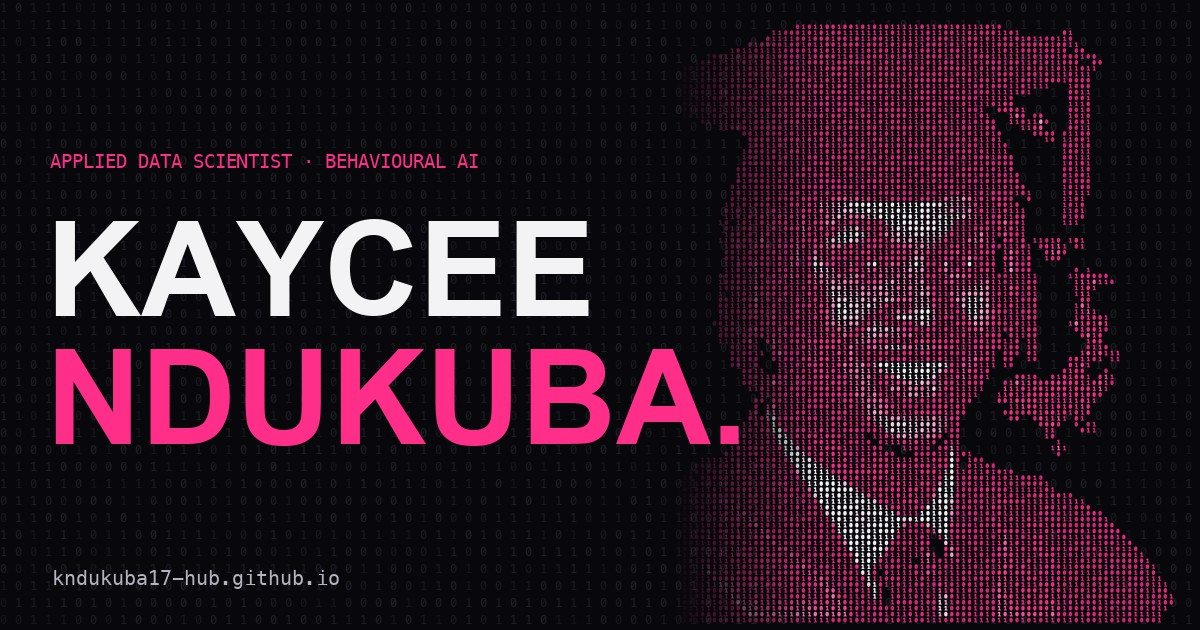
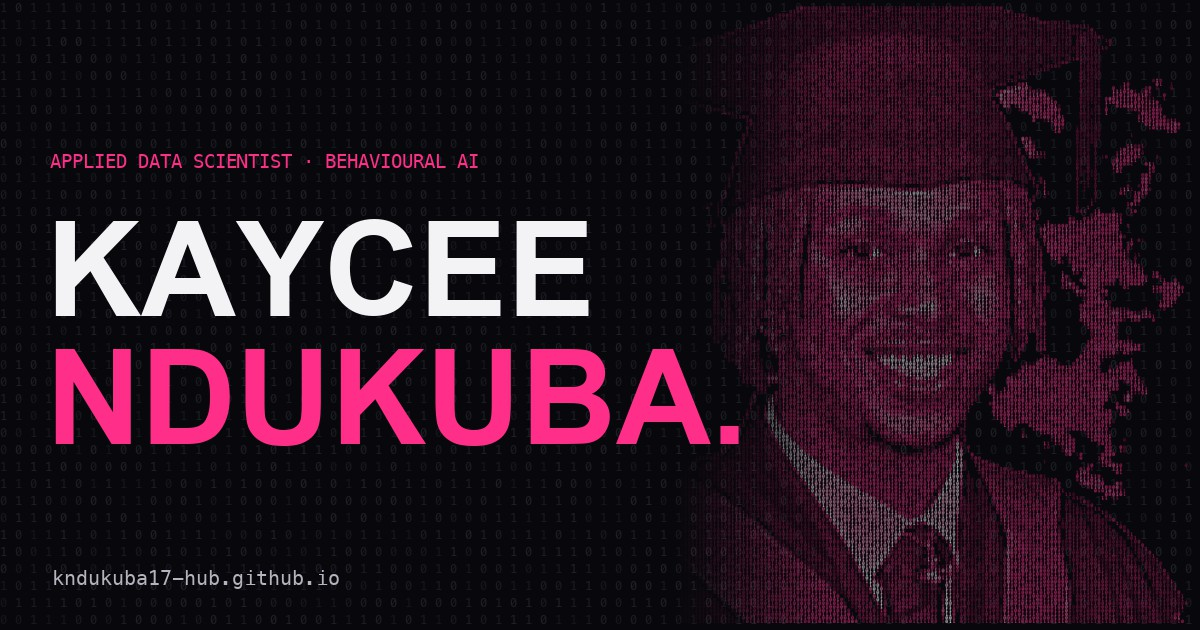
Hero: high-resolution animated ASCII portrait
- rebuild on the live canvas so the effect is alive again (static PNG removed)
- cell 18px -> 4px: ~360 columns across the hero, ~204 for the portrait
- new calibrated source map: local contrast normalisation replaces the flat floor
  that was flattening the cap and filling in the eyes/mouth
- colour ramp calibrated to measured map values (cap .40 eyes .52 cheek .78 teeth .97)
- static base layer + per-frame flicker/spotlight repaint keeps 74k chars at 59fps

Changed region(s): [[0.5858, 0.0, 0.9867, 0.9952]]

diff --git a/index.html b/index.html
@@ -62,11 +62,6 @@
   /* ===== HERO ===== */
   .hero{position:relative;height:100svh;min-height:640px;overflow:hidden;display:flex;align-items:center}
   #bin{position:absolute;inset:0;width:100%;height:100%;z-index:1}
-  .hface{position:absolute;top:50%;right:1.5%;transform:translateY(-50%);height:94%;width:auto;max-width:56%;object-fit:contain;z-index:2;pointer-events:none;
-    -webkit-mask-image:linear-gradient(90deg,transparent,#000 7%);mask-image:linear-gradient(90deg,transparent,#000 7%);
-    filter:brightness(1.2) contrast(1.1) drop-shadow(0 0 80px rgba(255,46,136,.22))}
-  @media (max-width:820px){.hface{max-width:none;width:120%;height:auto;top:50%;right:-6%;transform:translateY(-42%);opacity:.34;
-    -webkit-mask-image:radial-gradient(circle at 62% 46%,#000 42%,transparent 74%);mask-image:radial-gradient(circle at 62% 46%,#000 42%,transparent 74%)}}
   .hero .wrap{position:relative;z-index:3;width:100%;max-width:none}
   .hero .role{margin-bottom:14px}
   .hero h1{font-size:clamp(3.4rem,13vw,10rem);margin:0}
@@ -315,8 +310,7 @@
 <!-- HERO -->
 <header class="hero" id="top">
   <canvas id="bin" aria-hidden="true"></canvas>
-  <img class="hface" alt="Kaycee Ndukuba at graduation, rendered in binary" src="assets/kaycee-binary.png">
-  <img id="face" alt="" aria-hidden="true" style="display:none" src="assets/kaycee-hero.jpg">
+  <img id="face" alt="Kaycee Ndukuba at graduation, rendered in binary" style="display:none" src="assets/kaycee-map.png">
   <div class="wrap">
     <div class="role reveal in"><span class="ey">Applied Data Scientist · Behavioural AI</span></div>
     <h1 class="disp hname" aria-label="Kaycee Ndukuba"><span class="ln"><span class="in">KAYCEE</span></span><span class="ln"><span class="in b">NDUKUBA.</span></span></h1>
@@ -629,59 +623,96 @@ document.getElementById("msg").addEventListener("submit",function(e){
 });
 
 /* ---------- BINARY HERO (reveals portrait) ---------- */
-var cv=document.getElementById("bin"),x=cv.getContext("2d"),W,H,DPR,cols,rows,cell=18,grid=[],mx=-9999,my=-9999;
-var face=document.getElementById("face"),faceOK=false,flum=[];
+/* High-resolution ASCII portrait. The source map decides WHERE characters exist and HOW
+   BRIGHT they are. ~290 columns on desktop, so cap/hair/face/eyes/nose/smile/tie/gown all
+   resolve. A static base layer is rendered once; per frame we only repaint the flickering
+   cells and the cells under the cursor, which keeps 47k characters at 60fps. */
+var cv=document.getElementById("bin"),x=cv.getContext("2d"),W,H,DPR,cols,rows,mx=-9999,my=-9999;
+var cell=coarse?9:4, FONT="700 "+(cell+1)+"px 'SF Mono',ui-monospace,Menlo,monospace";
+var face=document.getElementById("face"),faceOK=false,flum=[],chars=[];
 var oc=document.createElement("canvas"),ox=oc.getContext("2d",{willReadFrequently:true});
-face.addEventListener("load",function(){faceOK=true;sampleFace();});
+var base=document.createElement("canvas"),bxc=base.getContext("2d");
+face.addEventListener("load",function(){faceOK=true;sampleFace();buildBase();});
 if(face.complete&&face.naturalWidth){faceOK=true;}
+
 function sampleFace(){
-  flum=[];return; // face is now a crisp static PNG overlay (.hface); canvas stays ambient
   if(!faceOK||!cols){flum=[];return;}
   oc.width=cols;oc.height=rows;ox.clearRect(0,0,cols,rows);
-  var startC=Math.floor(cols*0.40),rw=cols-startC,rh=rows,iw=face.naturalWidth,ih=face.naturalHeight;
-  var scale=Math.max(rw/iw,rh/ih),dw=iw*scale,dh=ih*scale,dx=startC+(rw-dw)/2,dy=(rh-dh)/2;
+  // CONTAIN (not cover) so the mortarboard is never cropped
+  var startC=Math.floor(cols*0.38),rw=cols-startC,rh=rows,iw=face.naturalWidth,ih=face.naturalHeight;
+  var scale=Math.min(rw/iw,rh/ih)*0.99,dw=iw*scale,dh=ih*scale;
+  var dx=startC+(rw-dw)*0.62,dy=(rh-dh)/2;
   ox.drawImage(face,dx,dy,dw,dh);
   var d;try{d=ox.getImageData(0,0,cols,rows).data;}catch(e){return;}
-  flum=new Array(cols*rows);
-  for(var i=0;i<cols*rows;i++){
-    var col=i%cols;
-    if(col<startC){flum[i]=0;continue;}
-    var lum=(0.299*d[i*4]+0.587*d[i*4+1]+0.114*d[i*4+2])/255;
-    lum=(lum-0.12)/0.64; lum=lum<0?0:lum>1?1:lum;
-    flum[i]=Math.pow(lum,0.78)*0.99;
-  }
+  flum=new Float32Array(cols*rows);
+  for(var i=0;i<cols*rows;i++) flum[i]=d[i*4]/255; // map is greyscale
 }
-function size(){DPR=Math.min(devicePixelRatio||1,2);W=cv.clientWidth;H=cv.clientHeight;cv.width=W*DPR;cv.height=H*DPR;x.setTransform(DPR,0,0,DPR,0,0);
-  cols=Math.ceil(W/cell)+1;rows=Math.ceil(H/cell)+1;grid=[];for(var i=0;i<cols*rows;i++)grid.push({c:Math.random()<.5?"0":"1",b:0});sampleFace();}
+// colour ramp calibrated to measured map values:
+// cap .40  hair .32  eyes .52  gown .58  nose .70  cheek .78  teeth .97
+function fcol(v){
+  var lv=(v-0.26)/0.74,u;
+  if(lv<0.26){u=lv/0.26;       return "rgb("+((92+108*u)|0)+","+((10+22*u)|0)+","+((46+58*u)|0)+")";}
+  if(lv<0.58){u=(lv-0.26)/0.32;return "rgb("+((200+55*u)|0)+","+((32+14*u)|0)+","+((104+32*u)|0)+")";}
+  u=(lv-0.58)/0.42;            return "rgb(255,"+((46+209*u)|0)+","+((136+119*u)|0)+")";
+}
+function paintCell(c,gx,gy,boost){
+  var i=gy*cols+gx,v=flum[i]||0,px=gx*cell+cell/2,py=gy*cell+cell/2;
+  if(boost) v=Math.min(1,v+boost*(v>0.26?0.30:0.16));
+  if(v<0.26){ // ambient field outside the portrait
+    var a=0.05+0.09*(boost||0);
+    if(v>0.16) a+=0.05;
+    c.fillStyle="rgba(150,150,170,"+a.toFixed(3)+")";
+  } else c.fillStyle=fcol(v);
+  c.fillText(chars[i],px,py);
+}
+function buildBase(){
+  if(!cols) return;
+  base.width=cv.width; base.height=cv.height;
+  bxc.setTransform(DPR,0,0,DPR,0,0);
+  bxc.clearRect(0,0,W,H);
+  bxc.font=FONT; bxc.textAlign="center"; bxc.textBaseline="middle";
+  for(var gy=0;gy<rows;gy++)for(var gx=0;gx<cols;gx++) paintCell(bxc,gx,gy,0);
+}
+function size(){
+  DPR=Math.min(devicePixelRatio||1,2);W=cv.clientWidth;H=cv.clientHeight;
+  cv.width=W*DPR;cv.height=H*DPR;x.setTransform(DPR,0,0,DPR,0,0);
+  cols=Math.ceil(W/cell)+1;rows=Math.ceil(H/cell)+1;
+  chars=new Array(cols*rows);
+  for(var i=0;i<cols*rows;i++) chars[i]=Math.random()<0.5?"0":"1";
+  sampleFace(); buildBase();
+}
 var hero=document.getElementById("top");
 hero.addEventListener("mousemove",function(e){var r=cv.getBoundingClientRect();mx=e.clientX-r.left;my=e.clientY-r.top;});
 hero.addEventListener("mouseleave",function(){mx=my=-9999;});
-addEventListener("resize",size);
-var t=0,rafH=null;
+addEventListener("resize",function(){clearTimeout(window.__hzr);window.__hzr=setTimeout(size,150);});
+var t=0,rafH=null,FLICK=coarse?120:420,RAD=coarse?110:120;
 function frame(){
   t+=0.016;
-  if(coarse){ mx=W*(0.70+0.15*Math.sin(t*0.5)); my=H*(0.46+0.20*Math.cos(t*0.42)); } // auto-sweep on touch
+  if(coarse){ mx=W*(0.70+0.15*Math.sin(t*0.5)); my=H*(0.46+0.20*Math.cos(t*0.42)); }
   x.clearRect(0,0,W,H);
-  x.font="700 12px 'SF Mono',ui-monospace,Menlo,monospace";x.textAlign="center";x.textBaseline="middle";
-  for(var gy=0;gy<rows;gy++){for(var gx=0;gx<cols;gx++){
-    var idx=gy*cols+gx,g=grid[idx];var px=gx*cell+cell/2,py=gy*cell+cell/2;
-    var fb=flum[idx]||0;
-    var wave=0.02+0.03*Math.sin((gx*0.5+gy*0.4)-t*1.3);
-    var dx2=px-mx,dy2=py-my,d=Math.sqrt(dx2*dx2+dy2*dy2);
-    var spot=d<160?(1-d/160):0; spot=spot*spot;
-    var target=Math.min(1,Math.max(fb, wave) + spot*1.15 + fb*spot*0.6);
-    g.b+=(target-g.b)*0.15;
-    if(Math.random()<0.008+spot*0.06+fb*0.03) g.c=Math.random()<.5?"0":"1";
-    var b=g.b;
-    if(b<0.10){x.fillStyle="rgba(120,120,140,"+(0.03+b*0.7).toFixed(3)+")";}
-    else{
-      var lv=(b-0.10)/0.90, rr,gg,bb;
-      if(lv<0.7){var u=lv/0.7;rr=Math.round(150+105*u);gg=Math.round(18+28*u);bb=Math.round(78+58*u);}
-      else{var w=(lv-0.7)/0.3;rr=255;gg=Math.round(46+209*w);bb=Math.round(136+119*w);}
-      x.fillStyle="rgb("+rr+","+gg+","+bb+")";
+  x.drawImage(base,0,0,W,H);
+  x.font=FONT;x.textAlign="center";x.textBaseline="middle";
+  // 1. living shimmer: swap a scattered handful of characters every frame
+  for(var k=0;k<FLICK;k++){
+    var gx=(Math.random()*cols)|0, gy=(Math.random()*rows)|0, i=gy*cols+gx;
+    chars[i]=Math.random()<0.5?"0":"1";
+    x.clearRect(gx*cell,gy*cell,cell,cell);
+    paintCell(x,gx,gy,0);
+    bxc.clearRect(gx*cell,gy*cell,cell,cell);
+    paintCell(bxc,gx,gy,0);
+  }
+  // 2. cursor spotlight brightens the characters it passes over
+  if(mx>-9000){
+    var c0=Math.max(0,((mx-RAD)/cell)|0), c1=Math.min(cols-1,((mx+RAD)/cell)|0);
+    var r0=Math.max(0,((my-RAD)/cell)|0), r1=Math.min(rows-1,((my+RAD)/cell)|0);
+    for(var gy2=r0;gy2<=r1;gy2++)for(var gx2=c0;gx2<=c1;gx2++){
+      var ddx=(gx2*cell+cell/2)-mx, ddy=(gy2*cell+cell/2)-my, dd=Math.sqrt(ddx*ddx+ddy*ddy);
+      if(dd>=RAD) continue;
+      var sp=1-dd/RAD; sp*=sp;
+      x.clearRect(gx2*cell,gy2*cell,cell,cell);
+      paintCell(x,gx2,gy2,sp);
     }
-    x.fillText(g.c,px,py);
-  }}
+  }
   rafH=requestAnimationFrame(frame);
 }
 size();
